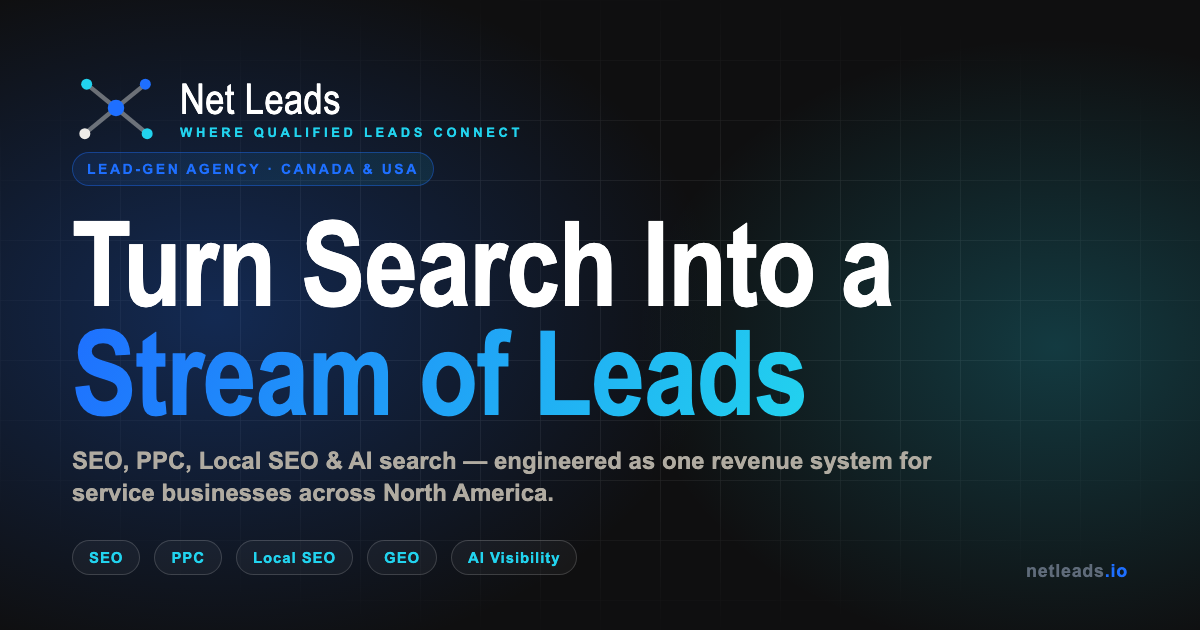
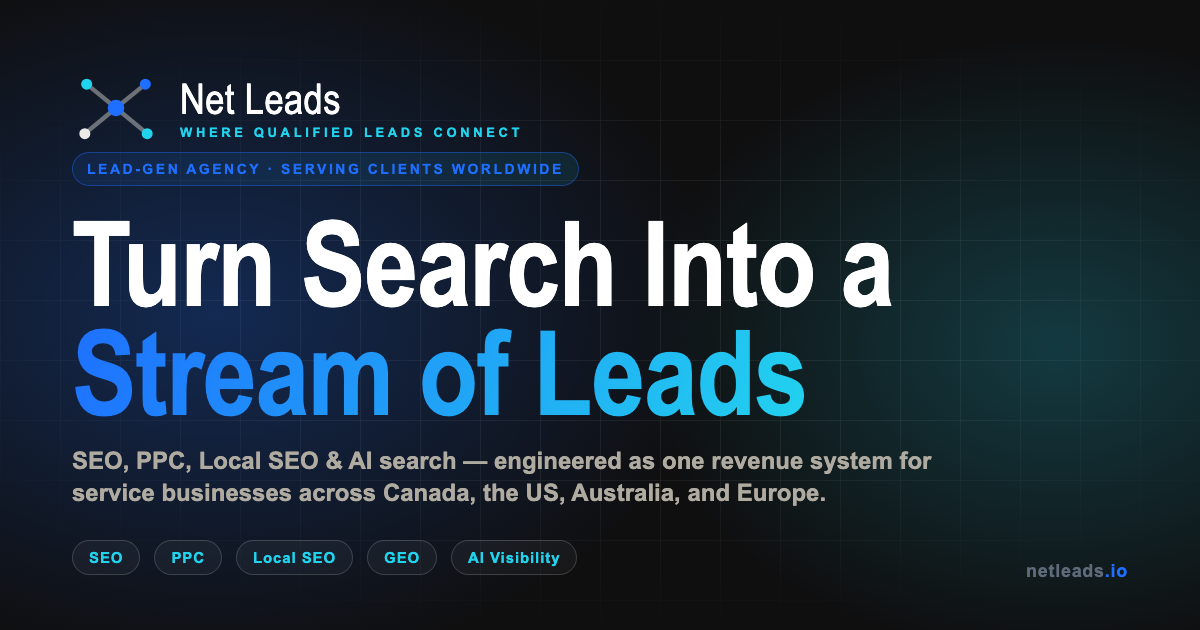
Broaden positioning to international: Canada, US, Australia, Europe — server-city list updated, schema areaServed expanded, OG image refreshed

Changed region(s): [[0.3083, 0.754, 0.6783, 0.8143], [0.2467, 0.2413, 0.4933, 0.3016]]

diff --git a/index.html b/index.html
@@ -4,8 +4,8 @@
 <meta charset="UTF-8" />
 <script>if(location.pathname.endsWith('/index.html'))location.replace(location.pathname.replace(/index\.html$/,'')+location.search+location.hash);</script>
 <meta name="viewport" content="width=device-width, initial-scale=1" />
-<title>Lead-Gen Marketing Agency Serving Canada &amp; USA | Net Leads</title>
-<meta name="description" content="Net Leads is a lead-generation marketing agency based in Toronto and serving Canada &amp; the USA — turning SEO, PPC, Local SEO &amp; AI search into a steady stream of high-intent leads." />
+<title>Lead-Gen Marketing Agency Serving Clients Worldwide | Net Leads</title>
+<meta name="description" content="Net Leads is a lead-generation marketing agency based in Toronto, serving service businesses across Canada, the US, Australia, and Europe. SEO, PPC, Local SEO &amp; AI search — turning intent into a steady stream of high-intent leads." />
 <script>document.documentElement.className += " js";</script>
 <link rel="preconnect" href="https://fonts.googleapis.com" />
 <link rel="preconnect" href="https://fonts.gstatic.com" crossorigin />
@@ -18,18 +18,18 @@
 <link rel="canonical" href="https://netleads.io/" />
 <meta property="og:type" content="website" />
 <meta property="og:site_name" content="Net Leads" />
-<meta property="og:title" content="Lead-Gen Marketing Agency Serving Canada &amp; USA | Net Leads" />
-<meta property="og:description" content="A Toronto-based lead-gen marketing agency turning SEO, PPC, Local SEO &amp; AI search into a steady stream of high-intent leads for service businesses across Canada and the United States." />
+<meta property="og:title" content="Lead-Gen Marketing Agency Serving Clients Worldwide | Net Leads" />
+<meta property="og:description" content="A Toronto-based lead-gen marketing agency turning SEO, PPC, Local SEO &amp; AI search into a steady stream of high-intent leads for service businesses across Canada, the US, Australia, and Europe." />
 <meta property="og:url" content="https://netleads.io/" />
 <meta property="og:image" content="https://netleads.io/assets/og.png" />
 <meta property="og:image:width" content="1200" />
 <meta property="og:image:height" content="630" />
 <meta property="og:locale" content="en_CA" />
 <meta name="twitter:card" content="summary_large_image" />
-<meta name="twitter:title" content="Lead-Gen Marketing Agency Serving Canada &amp; USA | Net Leads" />
-<meta name="twitter:description" content="A Toronto-based lead-gen marketing agency turning SEO, PPC, Local SEO &amp; AI search into a steady stream of high-intent leads for service businesses across Canada and the United States." />
+<meta name="twitter:title" content="Lead-Gen Marketing Agency Serving Clients Worldwide | Net Leads" />
+<meta name="twitter:description" content="A Toronto-based lead-gen marketing agency turning SEO, PPC, Local SEO &amp; AI search into a steady stream of high-intent leads for service businesses across Canada, the US, Australia, and Europe." />
 <meta name="twitter:image" content="https://netleads.io/assets/og.png" />
-<script type="application/ld+json">{"@context": "https://schema.org", "@graph": [{"@type": "ProfessionalService", "@id": "https://netleads.io/#org", "name": "Net Leads", "description": "Net Leads is a lead-generation marketing agency based in Toronto, Ontario, serving service businesses across Canada and the United States with proven SEO, PPC, Local SEO (GBP), and AI search systems that drive a steady, predictable stream of high-intent customers.", "url": "https://netleads.io/", "logo": "https://netleads.io/assets/og.png", "image": "https://netleads.io/assets/og.png", "email": "[email redacted]", "telephone": "[phone redacted]", "address": {"@type": "PostalAddress", "addressLocality": "Toronto", "addressRegion": "ON", "addressCountry": "CA"}, "geo": {"@type": "GeoCoordinates", "latitude": 43.6532, "longitude": -79.3832}, "knowsAbout": ["Marketing Agency", "Search Engine Optimization", "PPC Marketing", "Local SEO", "Google Business Profile", "Generative Engine Optimization", "AI Search Marketing"], "areaServed": [{"@type": "Country", "name": "Canada"}, {"@type": "Country", "name": "United States"}]}, {"@type": "WebSite", "@id": "https://netleads.io/#website", "url": "https://netleads.io/", "name": "Net Leads", "publisher": {"@id": "https://netleads.io/#org"}}, {"@type": "FAQPage", "mainEntity": [{"@type": "Question", "name": "Where is Net Leads located?", "acceptedAnswer": {"@type": "Answer", "text": "Net Leads is a marketing agency based in Toronto, Ontario, serving service businesses across Canada and the United States. You can reach the team at [phone redacted] or [email redacted]."}}, {"@type": "Question", "name": "Do you only work with businesses in Toronto, Ontario?", "acceptedAnswer": {"@type": "Answer", "text": "No. Net Leads is based in Toronto, Ontario and works with service businesses across Canada and the United States. In-person strategy for Greater Toronto Area clients when it helps, while everything else is handled remotely."}}, {"@type": "Question", "name": "How long does it take to see results?", "acceptedAnswer": {"@type": "Answer", "text": "Some channels like PPC and AI lead capture can generate leads quickly once launched. SEO, GEO, and GBP are longer-term strategies that build momentum over time. We focus on steady, measurable progress rather than short-lived spikes."}}, {"@type": "Question", "name": "Do you work with all industries?", "acceptedAnswer": {"@type": "Answer", "text": "We work best with service-based businesses that rely on inbound leads and want predictable growth. This includes home services, local businesses, and professional service providers."}}, {"@type": "Question", "name": "Do you require long-term contracts?", "acceptedAnswer": {"@type": "Answer", "text": "We believe trust is earned through performance and communication. While some strategies require time to show full results, our focus is on building partnerships, not locking clients into rigid commitments."}}, {"@type": "Question", "name": "Will I own my accounts and data?", "acceptedAnswer": {"@type": "Answer", "text": "Yes. You always retain ownership of your website, advertising accounts, data, and leads. We build systems that support your business, not dependencies that trap you."}}, {"@type": "Question", "name": "How involved do I need to be?", "acceptedAnswer": {"@type": "Answer", "text": "We handle strategy, setup, and optimization. Your role is to respond to leads and provide feedback so we can continue improving performance. We keep communication simple and focused."}}, {"@type": "Question", "name": "Is this a good fit for smaller businesses?", "acceptedAnswer": {"@type": "Answer", "text": "If your business is ready to handle more leads and wants to grow intentionally, this can be a strong fit. We aim for sustainable growth that aligns with your capacity, not overwhelm."}}]}]}</script>
+<script type="application/ld+json">{"@context": "https://schema.org", "@graph": [{"@type": "ProfessionalService", "@id": "https://netleads.io/#org", "name": "Net Leads", "description": "Net Leads is a lead-generation marketing agency based in Toronto, serving service businesses across Canada, the US, Australia, and Europe with proven SEO, PPC, Local SEO (GBP), and AI search systems that drive a steady, predictable stream of high-intent customers.", "url": "https://netleads.io/", "logo": "https://netleads.io/assets/og.png", "image": "https://netleads.io/assets/og.png", "email": "[email redacted]", "telephone": "[phone redacted]", "address": {"@type": "PostalAddress", "addressLocality": "Toronto", "addressRegion": "ON", "addressCountry": "CA"}, "geo": {"@type": "GeoCoordinates", "latitude": 43.6532, "longitude": -79.3832}, "knowsAbout": ["Marketing Agency", "Search Engine Optimization", "PPC Marketing", "Local SEO", "Google Business Profile", "Generative Engine Optimization", "AI Search Marketing"], "areaServed": [{"@type": "Country", "name": "Canada"}, {"@type": "Country", "name": "United States"}, {"@type": "Country", "name": "Australia"}, {"@type": "Country", "name": "United Kingdom"}, {"@type": "Country", "name": "Germany"}, {"@type": "Country", "name": "France"}, {"@type": "Country", "name": "Netherlands"}]}, {"@type": "WebSite", "@id": "https://netleads.io/#website", "url": "https://netleads.io/", "name": "Net Leads", "publisher": {"@id": "https://netleads.io/#org"}}, {"@type": "FAQPage", "mainEntity": [{"@type": "Question", "name": "Where is Net Leads located?", "acceptedAnswer": {"@type": "Answer", "text": "Net Leads is a marketing agency based in Toronto, serving service businesses across Canada, the US, Australia, and Europe. You can reach the team at [phone redacted] or [email redacted]."}}, {"@type": "Question", "name": "Do you only work with businesses in Toronto, Canada?", "acceptedAnswer": {"@type": "Answer", "text": "No. Net Leads is based in Toronto and works with service businesses across Canada, the US, Australia, and Europe. In-person strategy for Toronto-based clients when it helps, while everything else is handled remotely."}}, {"@type": "Question", "name": "How long does it take to see results?", "acceptedAnswer": {"@type": "Answer", "text": "Some channels like PPC and AI lead capture can generate leads quickly once launched. SEO, GEO, and GBP are longer-term strategies that build momentum over time. We focus on steady, measurable progress rather than short-lived spikes."}}, {"@type": "Question", "name": "Do you work with all industries?", "acceptedAnswer": {"@type": "Answer", "text": "We work best with service-based businesses that rely on inbound leads and want predictable growth. This includes home services, local businesses, and professional service providers."}}, {"@type": "Question", "name": "Do you require long-term contracts?", "acceptedAnswer": {"@type": "Answer", "text": "We believe trust is earned through performance and communication. While some strategies require time to show full results, our focus is on building partnerships, not locking clients into rigid commitments."}}, {"@type": "Question", "name": "Will I own my accounts and data?", "acceptedAnswer": {"@type": "Answer", "text": "Yes. You always retain ownership of your website, advertising accounts, data, and leads. We build systems that support your business, not dependencies that trap you."}}, {"@type": "Question", "name": "How involved do I need to be?", "acceptedAnswer": {"@type": "Answer", "text": "We handle strategy, setup, and optimization. Your role is to respond to leads and provide feedback so we can continue improving performance. We keep communication simple and focused."}}, {"@type": "Question", "name": "Is this a good fit for smaller businesses?", "acceptedAnswer": {"@type": "Answer", "text": "If your business is ready to handle more leads and wants to grow intentionally, this can be a strong fit. We aim for sustainable growth that aligns with your capacity, not overwhelm."}}]}]}</script>
 </head>
 <body>
 
@@ -85,9 +85,9 @@
     <div class="hero__wave"><div class="creative" data-creative="wave"></div></div>
   </div>
   <div class="wrap hero__inner">
-    <span class="eyebrow" data-reveal>Toronto, Canada • Serving Canada &amp; USA • SEO • PPC • Local • AI Search</span>
-    <h1 class="display h-xxl" data-reveal data-d="1">Lead-Gen Agency<br /><span class="grad-text">Canada &amp; USA</span></h1>
-    <p class="lead" data-reveal data-d="2">Net Leads is a lead-generation marketing agency based in Toronto, serving service businesses across Canada and the United States — turning SEO, PPC, Local SEO, and AI search into a steady stream of high-intent customers.</p>
+    <span class="eyebrow" data-reveal>Toronto, Canada • Serving Clients Worldwide • SEO • PPC • Local • AI Search</span>
+    <h1 class="display h-xxl" data-reveal data-d="1">Lead-Gen Agency<br /><span class="grad-text">Worldwide</span></h1>
+    <p class="lead" data-reveal data-d="2">Net Leads is a lead-generation marketing agency based in Toronto, serving service businesses across Canada, the US, Australia, and Europe — turning SEO, PPC, Local SEO, and AI search into a steady stream of high-intent customers.</p>
     <div class="hero__cta" data-reveal data-d="3">
       <a class="btn btn--primary btn--lg" href="/contact/">Get Started
         <svg viewBox="0 0 24 24" fill="none" stroke="currentColor" stroke-width="2.5" stroke-linecap="round" stroke-linejoin="round"><path d="M5 12h14M13 6l6 6-6 6"/></svg>
@@ -183,7 +183,7 @@
     <div class="head" data-reveal>
       <span class="eyebrow">Ideal Partners</span>
       <h2 class="display h-l">Where Being Seen<br />Actually Matters</h2>
-      <p class="lead">We work best with businesses where online visibility directly drives calls, bookings, and revenue, including home services, local businesses, professional consultancies, contractors, and auto dealers across Canada and the United States.</p>
+      <p class="lead">We work best with businesses where online visibility directly drives calls, bookings, and revenue, including home services, local businesses, professional consultancies, contractors, and auto dealers across Canada, the US, Australia, and Europe.</p>
     </div>
     <div class="tags" data-reveal data-d="1">
       <span class="tag"><svg viewBox="0 0 24 24" fill="none" stroke="currentColor" stroke-width="2" stroke-linecap="round" stroke-linejoin="round"><path d="M3 8h10a2.5 2.5 0 1 0-2.5-2.5"/><path d="M3 12h17a2.5 2.5 0 1 0-2.5-2.5"/><path d="M3 16h12a2.5 2.5 0 1 1-2.5 2.5"/></svg>HVAC</span>
@@ -207,7 +207,7 @@
       <span class="tag"><svg viewBox="0 0 24 24" fill="none" stroke="currentColor" stroke-width="2" stroke-linecap="round" stroke-linejoin="round"><path d="M7 3c-2.2 0-3.5 1.6-3.5 4.5 0 3.5 1.2 5.5 2 8.5.5 1.8 2 2 2.4-.2.3-1.7.5-3.3 2.1-3.3s1.8 1.6 2.1 3.3c.4 2.2 1.9 2 2.4.2.8-3 2-5 2-8.5C20.5 4.6 19.2 3 17 3c-1.4 0-2.3.8-3 .8S8.4 3 7 3Z"/></svg>Dentists</span>
       <span class="tag"><svg viewBox="0 0 24 24" fill="none" stroke="currentColor" stroke-width="2" stroke-linecap="round" stroke-linejoin="round"><path d="M5 11l1.6-4.4A2 2 0 0 1 8.5 5h7a2 2 0 0 1 1.9 1.6L19 11"/><path d="M4 11h16a1 1 0 0 1 1 1v4h-3M7 16H3v-4a1 1 0 0 1 1-1"/><circle cx="7.5" cy="16.5" r="1.5"/><circle cx="16.5" cy="16.5" r="1.5"/><path d="M9 16.5h6"/></svg>Auto Dealers</span>
     </div>
-    <p class="lead" style="margin-top:32px;max-width:780px" data-reveal data-d="2">Based in Toronto, Net Leads serves service businesses across Canada and the United States, including Toronto, Montreal, Vancouver, Calgary, New York, Chicago, Miami, and Los Angeles.</p>
+    <p class="lead" style="margin-top:32px;max-width:780px" data-reveal data-d="2">Based in Toronto, Net Leads serves service businesses across Canada, the US, Australia, and Europe, including Toronto, New York, London, Sydney, Melbourne, Berlin, and Paris.</p>
     <div style="margin-top:32px" data-reveal data-d="3">
       <a class="btn btn--primary" href="/contact/">Get Started
         <svg viewBox="0 0 24 24" fill="none" stroke="currentColor" stroke-width="2.5" stroke-linecap="round" stroke-linejoin="round"><path d="M5 12h14M13 6l6 6-6 6"/></svg>
@@ -295,11 +295,11 @@
     <div class="faq" data-reveal data-d="1">
       <div class="faq__item">
         <button class="faq__q">Where is Net Leads located?<span class="pm" aria-hidden="true"></span></button>
-        <div class="faq__a"><div class="faq__a-inner">Net Leads is a marketing agency based in Toronto, Ontario, serving service businesses across Canada and the United States. You can reach the team at [email redacted].</div></div>
+        <div class="faq__a"><div class="faq__a-inner">Net Leads is a marketing agency based in Toronto, serving service businesses across Canada, the US, Australia, and Europe. You can reach the team at [email redacted].</div></div>
       </div>
       <div class="faq__item">
-        <button class="faq__q">Do you only work with businesses in Toronto, Ontario?<span class="pm" aria-hidden="true"></span></button>
-        <div class="faq__a"><div class="faq__a-inner">No. Net Leads is based in Toronto, Ontario and works with service businesses across Canada and the United States. In-person strategy for Greater Toronto Area clients when it helps, while everything else is handled remotely.</div></div>
+        <button class="faq__q">Do you only work with businesses in Toronto, Canada?<span class="pm" aria-hidden="true"></span></button>
+        <div class="faq__a"><div class="faq__a-inner">No. Net Leads is based in Toronto and works with service businesses across Canada, the US, Australia, and Europe. In-person strategy for Toronto-based clients when it helps, while everything else is handled remotely.</div></div>
       </div>
       <div class="faq__item">
         <button class="faq__q">How long does it take to see results?<span class="pm" aria-hidden="true"></span></button>
@@ -352,8 +352,8 @@
           <span class="divider" aria-hidden="true"></span>
           <span class="lockup"><span class="name">Net Leads</span><span class="tagline">Where Qualified Leads Connect</span></span>
         </a>
-        <p>Net Leads is a marketing agency in Toronto, Ontario, helping businesses turn Google into a consistent source of customers using proven systems and AI-driven automation.</p>
-        <p class="footer__nap" style="margin-top:14px;font-size:14px;line-height:1.7;color:var(--text-onink-mut)">Toronto, Ontario &middot; Serving Canada &amp; USA</p>
+        <p>Net Leads is a Toronto-based marketing agency, helping businesses turn Google into a consistent source of customers using proven systems and AI-driven automation.</p>
+        <p class="footer__nap" style="margin-top:14px;font-size:14px;line-height:1.7;color:var(--text-onink-mut)">Toronto, Canada &middot; Serving Clients Worldwide</p>
       </div>
       <div class="footer__col">
         <h4>Quick Links</h4>

diff --git a/case-study-noblegreen-turf/index.html b/case-study-noblegreen-turf/index.html
@@ -102,7 +102,7 @@
     <div class="head" data-reveal>
       <span class="eyebrow">What We Did</span>
       <h2 class="display h-l">Two Channels.<br /><span class="grad-text">One Engine.</span></h2>
-      <p class="lead">We didn't just run ads or tweak a website. As a <a href="/">Toronto, Ontario marketing agency</a>, Net Leads built a multi-asset lead system from the ground up.</p>
+      <p class="lead">We didn't just run ads or tweak a website. As a <a href="/">Toronto, Canada marketing agency</a>, Net Leads built a multi-asset lead system from the ground up.</p>
     </div>
     <div style="margin-top:clamp(40px,5vw,64px)">
 
@@ -257,8 +257,8 @@
           <span class="divider" aria-hidden="true"></span>
           <span class="lockup"><span class="name">Net Leads</span><span class="tagline">Where Qualified Leads Connect</span></span>
         </a>
-        <p>Net Leads is a marketing agency in Toronto, Ontario, helping businesses turn Google into a consistent source of customers using proven systems and AI-driven automation.</p>
-        <p class="footer__nap" style="margin-top:14px;font-size:14px;line-height:1.7;color:var(--text-onink-mut)">Toronto, Ontario &middot; Serving Canada &amp; USA</p>
+        <p>Net Leads is a Toronto-based marketing agency, helping businesses turn Google into a consistent source of customers using proven systems and AI-driven automation.</p>
+        <p class="footer__nap" style="margin-top:14px;font-size:14px;line-height:1.7;color:var(--text-onink-mut)">Toronto, Canada &middot; Serving Clients Worldwide</p>
       </div>
       <div class="footer__col">
         <h4>Quick Links</h4>

diff --git a/contact/index.html b/contact/index.html
@@ -75,7 +75,7 @@
   <div class="wrap banner__inner" style="padding-bottom:clamp(40px,6vh,72px)">
     <span class="crumb" data-reveal><a href="/">Home</a> &nbsp;/&nbsp; Contact</span>
     <h1 class="display h-xl" data-reveal data-d="1">No Long Term Contracts.<br /><span class="grad-text">Only Results!</span></h1>
-    <p class="lead" data-reveal data-d="2">Book a call to learn if the proven Google marketing and AI-powered systems from our <a href="/">marketing agency in Toronto, Ontario</a> are the right fit for your business.</p>
+    <p class="lead" data-reveal data-d="2">Book a call to learn if the proven Google marketing and AI-powered systems from our <a href="/">Toronto-based marketing agency</a> are the right fit for your business.</p>
   </div>
 </section>
 
@@ -169,8 +169,8 @@
           <span class="divider" aria-hidden="true"></span>
           <span class="lockup"><span class="name">Net Leads</span><span class="tagline">Where Qualified Leads Connect</span></span>
         </a>
-        <p>Net Leads is a marketing agency in Toronto, Ontario, helping businesses turn Google into a consistent source of customers using proven systems and AI-driven automation.</p>
-        <p class="footer__nap" style="margin-top:14px;font-size:14px;line-height:1.7;color:var(--text-onink-mut)">Toronto, Ontario &middot; Serving Canada &amp; USA</p>
+        <p>Net Leads is a Toronto-based marketing agency, helping businesses turn Google into a consistent source of customers using proven systems and AI-driven automation.</p>
+        <p class="footer__nap" style="margin-top:14px;font-size:14px;line-height:1.7;color:var(--text-onink-mut)">Toronto, Canada &middot; Serving Clients Worldwide</p>
       </div>
       <div class="footer__col">
         <h4>Quick Links</h4>

diff --git a/about/index.html b/about/index.html
@@ -162,8 +162,8 @@
           <span class="divider" aria-hidden="true"></span>
           <span class="lockup"><span class="name">Net Leads</span><span class="tagline">Where Qualified Leads Connect</span></span>
         </a>
-        <p>Net Leads is a marketing agency in Toronto, Ontario, helping businesses turn Google into a consistent source of customers using proven systems and AI-driven automation.</p>
-        <p class="footer__nap" style="margin-top:14px;font-size:14px;line-height:1.7;color:var(--text-onink-mut)">Toronto, Ontario &middot; Serving Canada &amp; USA</p>
+        <p>Net Leads is a Toronto-based marketing agency, helping businesses turn Google into a consistent source of customers using proven systems and AI-driven automation.</p>
+        <p class="footer__nap" style="margin-top:14px;font-size:14px;line-height:1.7;color:var(--text-onink-mut)">Toronto, Canada &middot; Serving Clients Worldwide</p>
       </div>
       <div class="footer__col">
         <h4>Quick Links</h4>

diff --git a/case-studies/index.html b/case-studies/index.html
@@ -152,8 +152,8 @@
           <span class="divider" aria-hidden="true"></span>
           <span class="lockup"><span class="name">Net Leads</span><span class="tagline">Where Qualified Leads Connect</span></span>
         </a>
-        <p>Net Leads is a marketing agency in Toronto, Ontario, helping businesses turn Google into a consistent source of customers using proven systems and AI-driven automation.</p>
-        <p class="footer__nap" style="margin-top:14px;font-size:14px;line-height:1.7;color:var(--text-onink-mut)">Toronto, Ontario &middot; Serving Canada &amp; USA</p>
+        <p>Net Leads is a Toronto-based marketing agency, helping businesses turn Google into a consistent source of customers using proven systems and AI-driven automation.</p>
+        <p class="footer__nap" style="margin-top:14px;font-size:14px;line-height:1.7;color:var(--text-onink-mut)">Toronto, Canada &middot; Serving Clients Worldwide</p>
       </div>
       <div class="footer__col">
         <h4>Quick Links</h4>

diff --git a/case-study-steel-n-ink/index.html b/case-study-steel-n-ink/index.html
@@ -354,8 +354,8 @@
           <span class="divider" aria-hidden="true"></span>
           <span class="lockup"><span class="name">Net Leads</span><span class="tagline">Where Qualified Leads Connect</span></span>
         </a>
-        <p>Net Leads is a marketing agency in Toronto, Ontario, helping businesses turn Google into a consistent source of customers using proven systems and AI-driven automation.</p>
-        <p class="footer__nap" style="margin-top:14px;font-size:14px;line-height:1.7;color:var(--text-onink-mut)">Toronto, Ontario &middot; Serving Canada &amp; USA</p>
+        <p>Net Leads is a Toronto-based marketing agency, helping businesses turn Google into a consistent source of customers using proven systems and AI-driven automation.</p>
+        <p class="footer__nap" style="margin-top:14px;font-size:14px;line-height:1.7;color:var(--text-onink-mut)">Toronto, Canada &middot; Serving Clients Worldwide</p>
       </div>
       <div class="footer__col">
         <h4>Quick Links</h4>

diff --git a/pricing/index.html b/pricing/index.html
@@ -456,8 +456,8 @@
           <span class="divider" aria-hidden="true"></span>
           <span class="lockup"><span class="name">Net Leads</span><span class="tagline">Where Qualified Leads Connect</span></span>
         </a>
-        <p>Net Leads is a marketing agency in Toronto, Ontario, helping businesses turn Google into a consistent source of customers using proven systems and AI-driven automation.</p>
-        <p class="footer__nap" style="margin-top:14px;font-size:14px;line-height:1.7;color:var(--text-onink-mut)">Toronto, Ontario &middot; Serving Canada &amp; USA</p>
+        <p>Net Leads is a Toronto-based marketing agency, helping businesses turn Google into a consistent source of customers using proven systems and AI-driven automation.</p>
+        <p class="footer__nap" style="margin-top:14px;font-size:14px;line-height:1.7;color:var(--text-onink-mut)">Toronto, Canada &middot; Serving Clients Worldwide</p>
       </div>
       <div class="footer__col">
         <h4>Quick Links</h4>

diff --git a/services/index.html b/services/index.html
@@ -309,8 +309,8 @@
           <span class="divider" aria-hidden="true"></span>
           <span class="lockup"><span class="name">Net Leads</span><span class="tagline">Where Qualified Leads Connect</span></span>
         </a>
-        <p>Net Leads is a marketing agency in Toronto, Ontario, helping businesses turn Google into a consistent source of customers using proven systems and AI-driven automation.</p>
-        <p class="footer__nap" style="margin-top:14px;font-size:14px;line-height:1.7;color:var(--text-onink-mut)">Toronto, Ontario &middot; Serving Canada &amp; USA</p>
+        <p>Net Leads is a Toronto-based marketing agency, helping businesses turn Google into a consistent source of customers using proven systems and AI-driven automation.</p>
+        <p class="footer__nap" style="margin-top:14px;font-size:14px;line-height:1.7;color:var(--text-onink-mut)">Toronto, Canada &middot; Serving Clients Worldwide</p>
       </div>
       <div class="footer__col">
         <h4>Quick Links</h4>